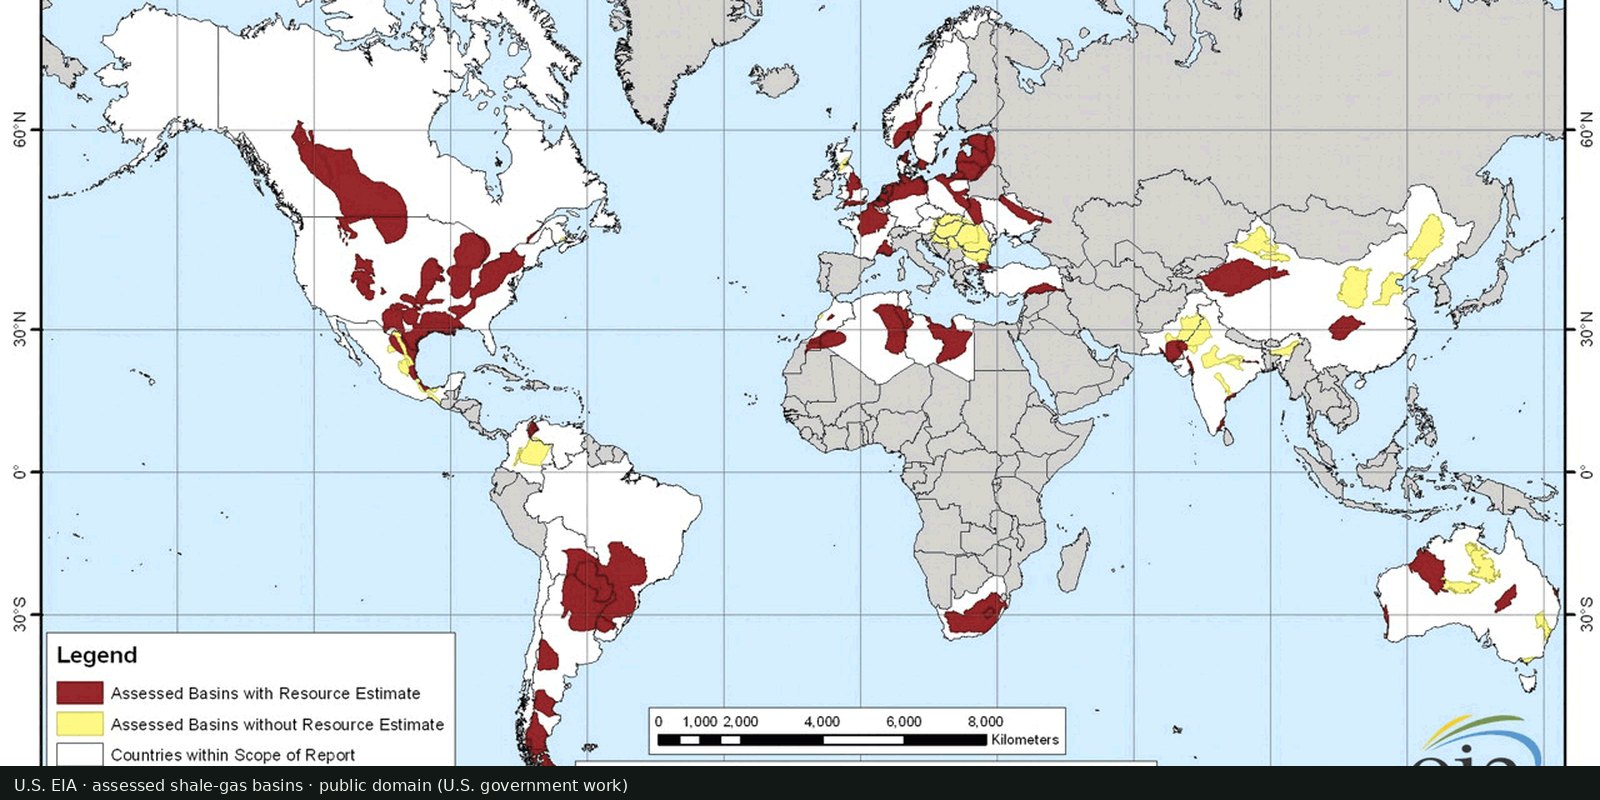
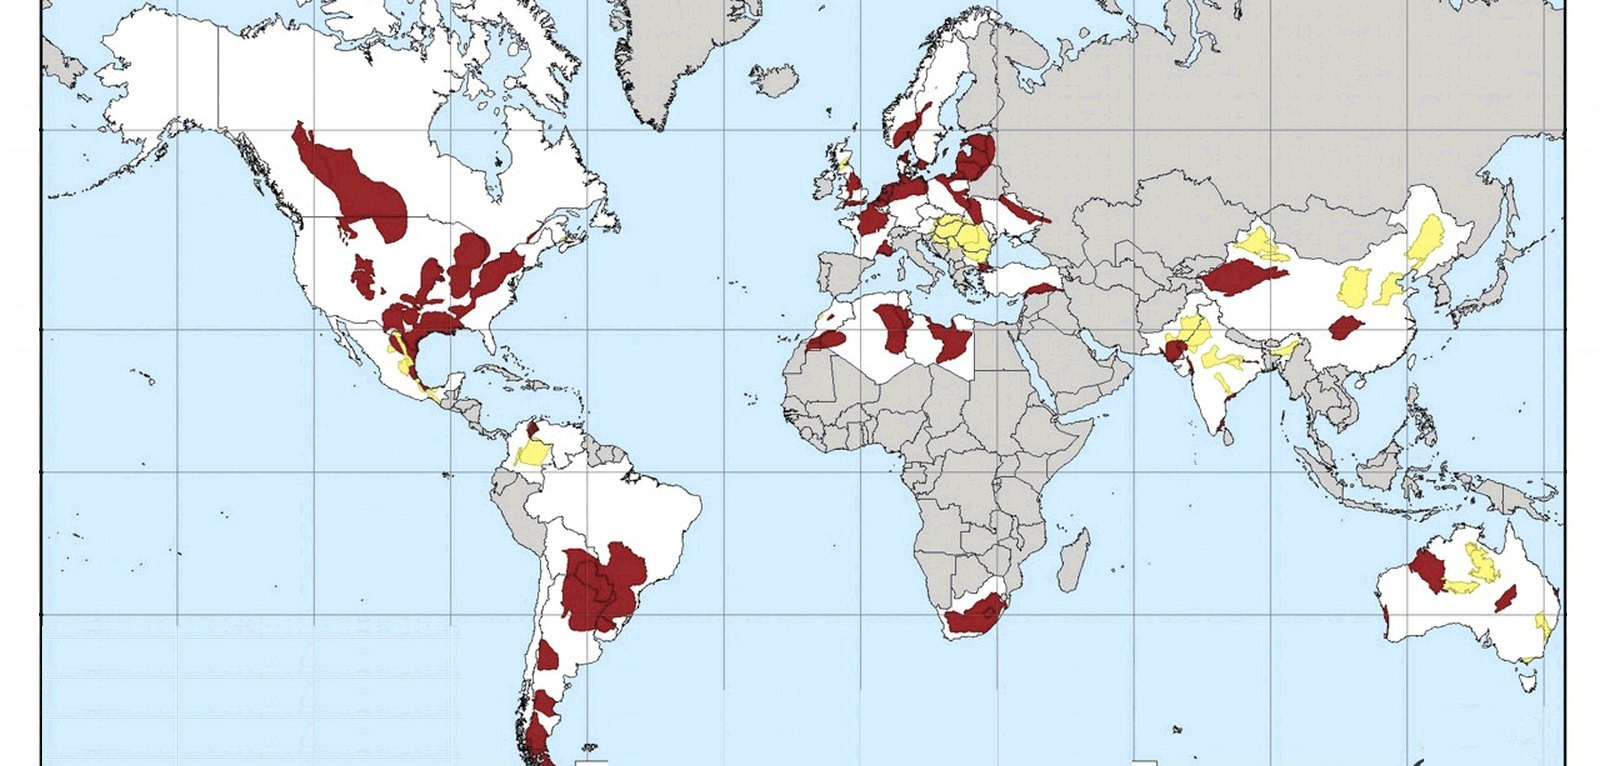
Remove baked English from the oil-and-gas map and show mineral deposits in full.
Crop the EIA shale-gas figure so the legend, scale, logo, margin numerals, and credit bar are gone, and put the three-color key in HTML for all four locales. Show both hub thumbnails with object-fit contain.

diff --git a/src/i18n/maps-ru.ts b/src/i18n/maps-ru.ts
@@ -267,9 +267,21 @@ export const ru: Record<string, MapCopy> = {
     caveats:
       'Страны сами составляют отчёты о запасах, и эти отчёты следуют национальным правилам наряду с геологией. Цифры Управления энергетической информации США входят в число самых прозрачных открытых рядов. В открытых таблицах приведены национальные итоги и оценённые бассейны.',
     licenseNote:
-      'Работы Управления энергетической информации США и Геологической службы США — произведения правительства США в общественном достоянии. На превью карта оценённых бассейнов сланцевого газа этого управления. Актуальные карты и таблицы нефти и газа опубликованы на его международных страницах.',
+      'Работы Управления энергетической информации США и Геологической службы США — произведения правительства США в общественном достоянии. На превью фрагмент карты оценённых бассейнов сланцевого газа этого управления. Актуальные карты и таблицы нефти и газа опубликованы на его международных страницах.',
     imageAlt:
       'Карта мира оценённых бассейнов сланцевого газа Управления энергетической информации США: белые и серые страны, бордовые и жёлтые контуры бассейнов',
+    caption:
+      'Оценённые бассейны сланцевого газа: фрагмент карты Управления энергетической информации США в общественном достоянии.',
+    legend: [
+      {
+        title: 'Условные обозначения',
+        items: [
+          { swatch: '#97272b', label: 'Оценённые бассейны с оценкой ресурсов' },
+          { swatch: '#fef984', label: 'Оценённые бассейны без оценки ресурсов' },
+          { swatch: '#fdfefe', label: 'Страны в охвате отчёта' },
+        ],
+      },
+    ],
     gridSource: cite(
       'Управление энергетической информации США, международные энергетические данные',
       'https://www.eia.gov/international/data/world',

diff --git a/src/i18n/maps-lv.ts b/src/i18n/maps-lv.ts
@@ -264,9 +264,21 @@ export const lv: Record<string, MapCopy> = {
     caveats:
       'Valstis pašas sagatavo rezervju ziņojumus, un šie ziņojumi seko valsts noteikumiem līdzās ģeoloģijai. Amerikas Savienoto Valstu Enerģētikas informācijas pārvaldes skaitļi ir starp caurspīdīgākajām publiskajām datu rindām. Publiskajās tabulās ir valstu kopsummas un novērtētie baseini.',
     licenseNote:
-      'Amerikas Savienoto Valstu Enerģētikas informācijas pārvaldes un Amerikas Savienoto Valstu Ģeoloģijas dienesta darbi ir Amerikas Savienoto Valstu valdības darbi publiskajā īpašumā. Priekšskats ir šīs pārvaldes novērtēto slānekļa gāzes baseinu karte. Aktuālās naftas un gāzes kartes un tabulas ir pārvaldes starptautiskajās lapās.',
+      'Amerikas Savienoto Valstu Enerģētikas informācijas pārvaldes un Amerikas Savienoto Valstu Ģeoloģijas dienesta darbi ir Amerikas Savienoto Valstu valdības darbi publiskajā īpašumā. Priekšskats ir izgriezums no šīs pārvaldes kartes ar novērtētajiem slānekļa gāzes baseiniem. Aktuālās naftas un gāzes kartes un tabulas ir pārvaldes starptautiskajās lapās.',
     imageAlt:
       'Amerikas Savienoto Valstu Enerģētikas informācijas pārvaldes karte ar novērtētiem slānekļa gāzes baseiniem: baltas un pelēkas valstis ar bordo un dzelteniem baseinu daudzstūriem',
+    caption:
+      'Novērtētie slānekļa gāzes baseini, izgriezums no Amerikas Savienoto Valstu Enerģētikas informācijas pārvaldes kartes publiskajā īpašumā.',
+    legend: [
+      {
+        title: 'Kartes apzīmējumi',
+        items: [
+          { swatch: '#97272b', label: 'Novērtētie baseini ar resursu aplēsi' },
+          { swatch: '#fef984', label: 'Novērtētie baseini bez resursu aplēses' },
+          { swatch: '#fdfefe', label: 'Valstis ziņojuma tvērumā' },
+        ],
+      },
+    ],
     gridSource: cite(
       'Amerikas Savienoto Valstu Enerģētikas informācijas pārvalde, starptautiskie enerģētikas dati',
       'https://www.eia.gov/international/data/world',

diff --git a/src/i18n/maps-pl.ts b/src/i18n/maps-pl.ts
@@ -265,9 +265,21 @@ export const pl: Record<string, MapCopy> = {
     caveats:
       'Kraje same sporządzają raporty o rezerwach, a raporty te idą za krajowymi zasadami obok geologii. Liczby Amerykańskiej Agencji Informacji Energetycznej należą do najbardziej przejrzystych publicznych szeregów. Publiczne tabele podają sumy krajowe i ocenione baseny.',
     licenseNote:
-      'Prace Amerykańskiej Agencji Informacji Energetycznej i Służby Geologicznej Stanów Zjednoczonych to dzieła rządu Stanów Zjednoczonych w domenie publicznej. Podgląd to mapa ocenionych basenów gazu łupkowego tej agencji. Aktualne mapy i tabele ropy i gazu są na jej stronach międzynarodowych.',
+      'Prace Amerykańskiej Agencji Informacji Energetycznej i Służby Geologicznej Stanów Zjednoczonych to dzieła rządu Stanów Zjednoczonych w domenie publicznej. Podgląd to wycinek mapy ocenionych basenów gazu łupkowego tej agencji. Aktualne mapy i tabele ropy i gazu są na jej stronach międzynarodowych.',
     imageAlt:
       'Mapa świata ocenionych basenów gazu łupkowego Amerykańskiej Agencji Informacji Energetycznej: białe i szare kraje oraz bordowe i żółte wielokąty basenów',
+    caption:
+      'Ocenione baseny gazu łupkowego, wycinek mapy Amerykańskiej Agencji Informacji Energetycznej w domenie publicznej.',
+    legend: [
+      {
+        title: 'Legenda mapy',
+        items: [
+          { swatch: '#97272b', label: 'Ocenione baseny z szacunkiem zasobów' },
+          { swatch: '#fef984', label: 'Ocenione baseny bez szacunku zasobów' },
+          { swatch: '#fdfefe', label: 'Kraje objęte zakresem raportu' },
+        ],
+      },
+    ],
     gridSource: cite(
       'Amerykańska Agencja Informacji Energetycznej, międzynarodowe dane energetyczne',
       'https://www.eia.gov/international/data/world',

diff --git a/src/i18n/maps.ts b/src/i18n/maps.ts
@@ -622,9 +622,21 @@ const en: Record<string, MapCopy> = {
     caveats:
       'Countries prepare their own reserve reports, and those reports follow each country’s rules as well as the geology. Figures from the U.S. Energy Information Administration are among the most transparent public series. The public tables give national totals and assessed basins.',
     licenseNote:
-      'Works of the U.S. Energy Information Administration and the U.S. Geological Survey are U.S. government works in the public domain. The preview is the Administration’s assessed shale-gas basin map. Current oil and gas maps and tables are on the Administration’s international pages.',
+      'Works of the U.S. Energy Information Administration and the U.S. Geological Survey are U.S. government works in the public domain. The preview is cropped from the Administration’s public-domain map of assessed shale-gas basins. Current oil and gas maps and tables are on the Administration’s international pages.',
     imageAlt:
       'World map of assessed shale-gas basins from the U.S. Energy Information Administration, with white and grey countries and maroon and yellow basin polygons',
+    caption:
+      'Assessed shale-gas basins, cropped from a public-domain map of the U.S. Energy Information Administration.',
+    legend: [
+      {
+        title: 'Map key',
+        items: [
+          { swatch: '#97272b', label: 'Assessed basins with a resource estimate' },
+          { swatch: '#fef984', label: 'Assessed basins without a resource estimate' },
+          { swatch: '#fdfefe', label: 'Countries within the scope of the report' },
+        ],
+      },
+    ],
     gridSource: cite(
       'U.S. Energy Information Administration, international energy data',
       'https://www.eia.gov/international/data/world',

diff --git a/src/i18n/real-map-credits.ts b/src/i18n/real-map-credits.ts
@@ -48,10 +48,10 @@ const credits: Record<string, Record<Locale, string>> = {
     lv: 'Karte: Fix Planet pēc Amerikas Savienoto Valstu Ģeoloģijas dienesta minerālresursu datu sistēmas atrašanās vietām, publiskais īpašums. Robežas: Natural Earth, publiskais domēns.',
   },
   'oil-gas-reserves': {
-    en: 'Map: U.S. Energy Information Administration, assessed shale-gas basins, public domain.',
-    ru: 'Карта: Управление энергетической информации США, оценённые бассейны сланцевого газа, общественное достояние.',
-    pl: 'Mapa: Amerykańska Agencja Informacji Energetycznej, ocenione baseny gazu łupkowego, domena publiczna.',
-    lv: 'Karte: Amerikas Savienoto Valstu Enerģētikas informācijas pārvalde, novērtētie slānekļa gāzes baseini, publiskais īpašums.',
+    en: 'Map: cropped from the U.S. Energy Information Administration public-domain map of assessed shale-gas basins.',
+    ru: 'Карта: фрагмент карты оценённых бассейнов сланцевого газа Управления энергетической информации США, общественное достояние.',
+    pl: 'Mapa: wycinek mapy ocenionych basenów gazu łupkowego Amerykańskiej Agencji Informacji Energetycznej, domena publiczna.',
+    lv: 'Karte: izgriezums no Amerikas Savienoto Valstu Enerģētikas informācijas pārvaldes publiskā īpašuma kartes ar novērtētajiem slānekļa gāzes baseiniem.',
   },
   'coal-mines': {
     en: 'Map: Fix Planet, from Global Energy Monitor, Global Coal Mine Tracker, August 2026 release, Creative Commons Attribution 4.0 International licence. Boundaries: Natural Earth, public domain.',

diff --git a/src/data/maps.ts b/src/data/maps.ts
@@ -522,6 +522,10 @@ export const mapMeta: MapMeta[] = [
     openMapUrl: 'https://www.eia.gov/international/data/world',
     preview: 'oil-gas-reserves.jpg',
     previewKind: 'photo',
+    fit: 'contain',
+    frameColor: '#d5effe',
+    previewWidth: 1600,
+    previewHeight: 766,
   },
   {
     slug: 'mineral-resources',
@@ -534,6 +538,10 @@ export const mapMeta: MapMeta[] = [
     preview: 'mineral-resources.jpg',
     detail: 'detail/mineral-resources.webp',
     previewKind: 'data',
+    fit: 'contain',
+    frameColor: '#0a1720',
+    previewWidth: 1600,
+    previewHeight: 800,
   },
   {
     slug: 'coal-mines',
